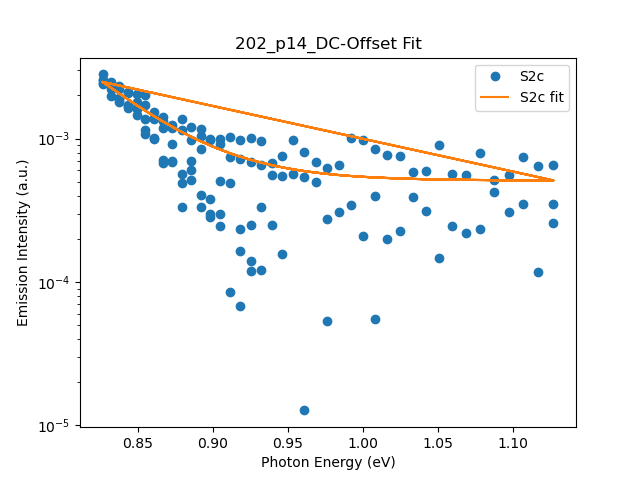
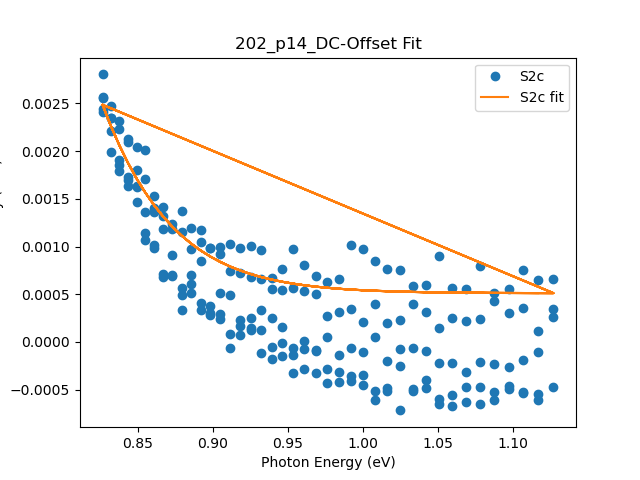
changed to linear y scale

diff --git a/test_v2.py b/test_v2.py
@@ -8,7 +8,6 @@ import os
 import os.path
 import shutil
 
-
 '''
 First section contains file manipulation to take into account of multiple runs of the experiment 
 '''
@@ -45,9 +44,9 @@ dirName = 'final_data'
 # Making new directory to put processed data 
 if not os.path.exists(dirName):
     os.mkdir(dirName)
-    print("\nDirectory " , dirName ,  " Created ")
+    print("\nDirectory **" , dirName ,  "** Created ")
 else:    
-    print("\nDirectory " , dirName ,  " already exists")
+    print("\nDirectory **" , dirName ,  "** already exists")
     print("Recreating directory...")
     shutil.rmtree(dirName)
     os.mkdir(dirName)
@@ -97,13 +96,13 @@ volts = [] # Empty list to store input voltage values
 c_temp = [] # Empty list to store calculated carrier temperature values 
 
 # Making new directory to put plots created
-print(os.getcwd())
+#print(os.getcwd())
 dirName2 = 'processed_plot'
 if not os.path.exists(path2+'/'+dirName2):
     os.mkdir(path2+'/'+dirName2)
-    print("\nDirectory " , dirName2 ,  " Created ")
+    print("\nDirectory **" , dirName2 ,  "** Created ")
 else:    
-    print("\nDirectory " , dirName2 ,  " already exists")
+    print("\nDirectory **" , dirName2 ,  "** already exists")
     print("Recreating directory...")
     shutil.rmtree(path2+'/'+dirName2)
     os.mkdir(path2+'/'+dirName2)
@@ -138,26 +137,26 @@ def guess_check(title_str, xdata, ydata, label1, label2, plot_title, bandE):
     pfinal_b = popt2[1]
     pfinal_c = popt2[2] 
 
-    print(f''' 
-{title_str}
-_____________________________________________
+#     print(f''' 
+# {title_str}
+# _____________________________________________
 
-Initial Guess Parameters: 
-    b = {popt1[0]}
-    c = {popt1[1]}
+# Initial Guess Parameters: 
+#     b = {popt1[0]}
+#     c = {popt1[1]}
 
-Final Fit Parameters: 
-    a = {popt2[0]}
-    b = {popt2[1]}
-    c = {popt2[2]}
-    ''')
+# Final Fit Parameters: 
+#     a = {popt2[0]}
+#     b = {popt2[1]}
+#     c = {popt2[2]}
+#     ''')
 
     fig = plt.figure()
     plt.plot(xdata, ydata, 'o', label=label1)
     plt.plot(xdata, second_pass(xdata, *popt2), '-', label=label2)
     plt.ylabel('Emission Intensity (a.u.)')
     plt.xlabel('Photon Energy (eV)')
-    plt.yscale('log')
+    # plt.yscale('log')
     plt.title(plot_title)
     plt.legend()
     plt.ioff()
@@ -170,7 +169,7 @@ for files in data_list:
     if (files == ".DS_Store"): 
         pass 
     else: 
-        print(f'\nCurrently Processing: {files}')
+        #print(f'\nCurrently Processing: {files}')
         # Reading .csv files 
         test_df = pd.read_csv(path2+f"/{files}")
         col = test_df.columns
@@ -218,8 +217,20 @@ for files in data_list:
         dc_guessb, dc_guessc, dc_fita, dc_fitb, dc_fitc, fig = guess_check('DC-Offset Calculations', new_df['Photon Energy'], new_df['S2c'], 'S2c', 'S2c fit', components[0] + '_' + components[1] + '_' +'DC-Offset Fit', bandE)
         # Since dLambda to dE correction is already done with another column, we can skip straight to multiplier correction 
 
+        
         # Multiplier Correction 
         new_df['Corrected S2'] = (new_df['dE_Conv S2'] - dc_fita) * new_df['Multiplier']
         guessb, guessc, final_a, final_b, final_c, fig = guess_check('Final Fit Calculation', new_df['Photon Energy'], new_df['Corrected S2'], 'Corrected S2', 'Corrected fit', components[0] + '_' + components[1] + '_' +'final fit', bandE)
         e_temp = 1/(k*final_b)
-        print(f"The carrier temperature is {e_temp} K.")
+        c_temp.append(e_temp)
+        print(f"\nFor {files} the carrier temperature is {e_temp} K.")
+        # print(f"The carrier temperature is {e_temp} K.")
+
+# Checking final data to be plotted for carrier temp plot 
+for volt in volts: 
+    if volt[0] == 'p':
+        volt = volt[1:]
+    elif volt[0] == 'n': 
+        pass 
+print(volts)
+# print(c_temp)
